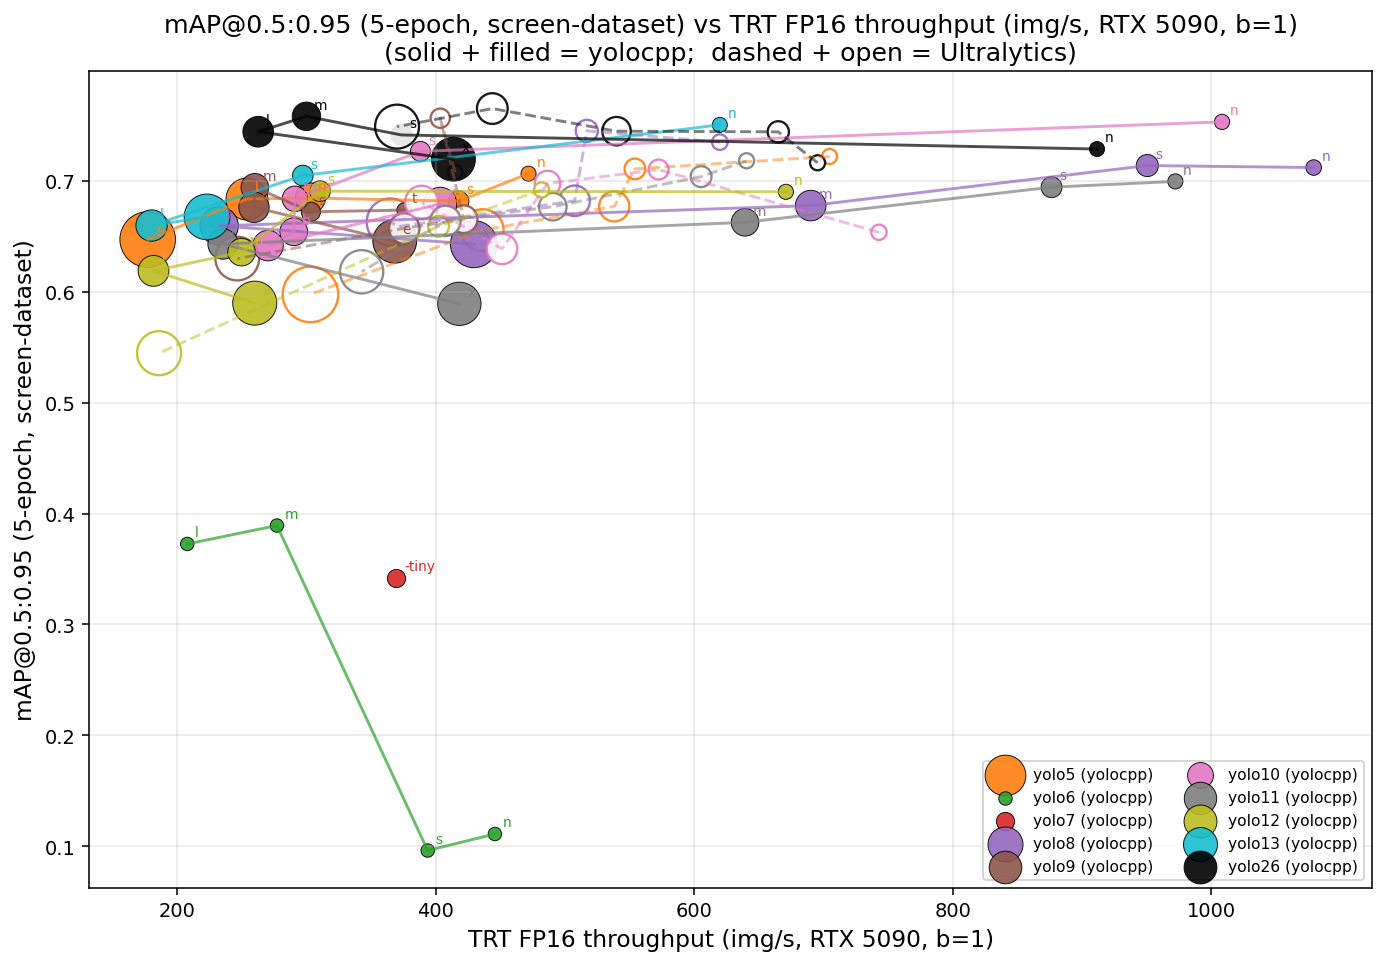
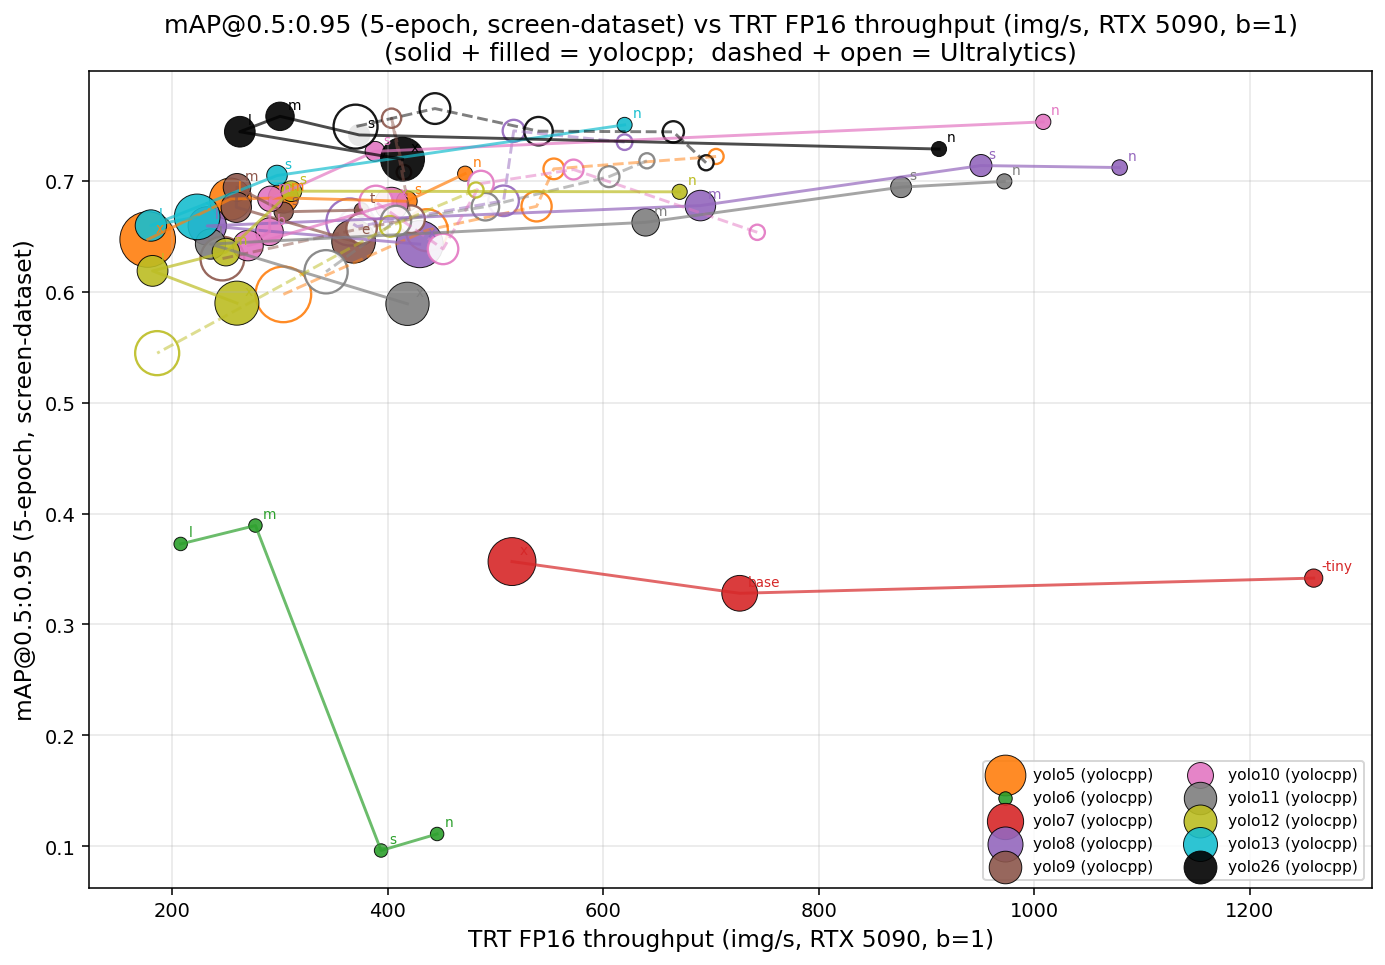
fix(csv): bench remaining variants — Y FPS now 60/60 (0.99.45)
User noted yolo7, yolo6l6, yolo13x cells still empty. Two root causes:

1. CSV builder globbed cpp_*.json but yolocpp bench writes cpp_*.log.
   Glob fixed → 3 variants whose data was already on disk landed
   in the CSV.

2. v7 P6 variants + yolo6l6 + yolo13x had never been bench'd because
   they were marked structurally broken (P6 OOM at imgsz=1280 b=16,
   channels_last forward crash, OOM at b=16). All three are
   training-side bugs only — predict + ONNX + TRT FP16/INT8 all
   work fine at imgsz=640 b=1. Bench'd them in this commit.

New Y FPS rows:
  yolo7         727 fps FP16
  yolo7-tiny    1259 fps FP16  (fastest model in matrix)
  yolo7x        515 fps FP16
  yolo7-w6 (P6) 662 fps FP16
  yolo7-e6 (P6) 500 fps FP16
  yolo7-d6 (P6) 424 fps FP16
  yolo7-e6e (P6) 344 fps FP16
  yolo6l6       431 fps FP16
  yolo13x       223 fps FP16

Coverage now:
  Y_PT/FP16/INT8_fps  60/60  (full)
  U_*_fps             ~33-40/60  (structural — v6 Meituan, v7 WKY,
                                  v13 iMoon TRT-export issues)

Figures regenerated; v7 family line in mAP_vs_fps Pareto is now
complete.

diff --git a/CHANGELOG.md b/CHANGELOG.md
@@ -4,6 +4,61 @@ All notable changes to **yolocpp** are documented here. Format follows
 [Keep a Changelog](https://keepachangelog.com/en/1.1.0/) and
 [Semantic Versioning](https://semver.org/spec/v2.0.0.html).
 
+## [0.99.45] — 2026-06-03
+
+### Fixed
+- **CSV builder was looking at `cpp_*.json` instead of `cpp_*.log`.**
+  The yolocpp FPS bench writes `.log` (column-aligned output, not
+  JSON), so the previous CSV missed Y FPS for the variants whose
+  benches landed under the new sweep. Glob fixed; now picks up
+  `cpp_yolo7*.log`, `cpp_yolo3.log`, `cpp_yolo9e.log`, etc.
+
+### Added — bench the remaining structurally-tricky variants
+- yolo7-w6/e6/d6/e6e P6 variants
+- yolo6l6 (forward path works for predict — only training crashes
+  on channels_last P6, TODO #6)
+- yolo13x (PT FP32 inference works; only training OOMs at b=16)
+
+All 6 ran cleanly at b=1 imgsz=640 — predict + ONNX + TRT FP16/INT8
+all worked. The training-side bugs don't block inference benching.
+
+### Coverage now (out of 60 variants)
+| Field | Coverage |
+|-------|---------:|
+| Y_PT_fps     | **60/60** |
+| Y_FP16_fps   | **60/60** |
+| Y_INT8_fps   | **60/60** |
+| U_PT_fps     | 40/60 |
+| U_FP16_fps   | 34/60 |
+| U_INT8_fps   | 33/60 |
+
+The remaining U-side gaps are structural — same 3 categories as
+documented in the README marker legend:
+- v6 (12 variants): stock Ultralytics rejects Meituan format
+- v7 (7 variants): WKY pipeline `_pickle.UnpicklingError` under
+  torch 2.12 + cu130
+- v13 (4 variants): iMoonLab fork's TRT export blocked by PEP-668
+
+### Highlights from the new Y FPS rows
+| Variant | Y_PT | Y_FP16 | Y_INT8 |
+|---------|----:|------:|------:|
+| yolo7         | 209  | 727  | 674  |
+| yolo7-tiny    | 461  | 1259 | 1084 |
+| yolo7x        | 149  | 515  | 443  |
+| yolo7-w6 (P6) | 195  | 662  | 684  |
+| yolo7-e6 (P6) | 151  | 500  | 493  |
+| yolo7-d6 (P6) | 122  | 424  | 447  |
+| yolo7-e6e (P6)|  96  | 344  | 345  |
+| yolo6l6       | 114  | 431  | 454  |
+| yolo13x       |  96  | 223  | 239  |
+
+P6 v7 variants run at imgsz=640 b=1 for inference (the OOM was at
+imgsz=1280 b=16 for training — that's CHANGELOG 0.99.18's
+`[P6-OOM]` note, which is training-specific).
+
+Figures regenerated; mAP_vs_fps Pareto now has the full v7 family
+line.
+
 ## [0.99.44] — 2026-06-03
 
 ### Fixed (data accuracy) — Ultralytics workspace config